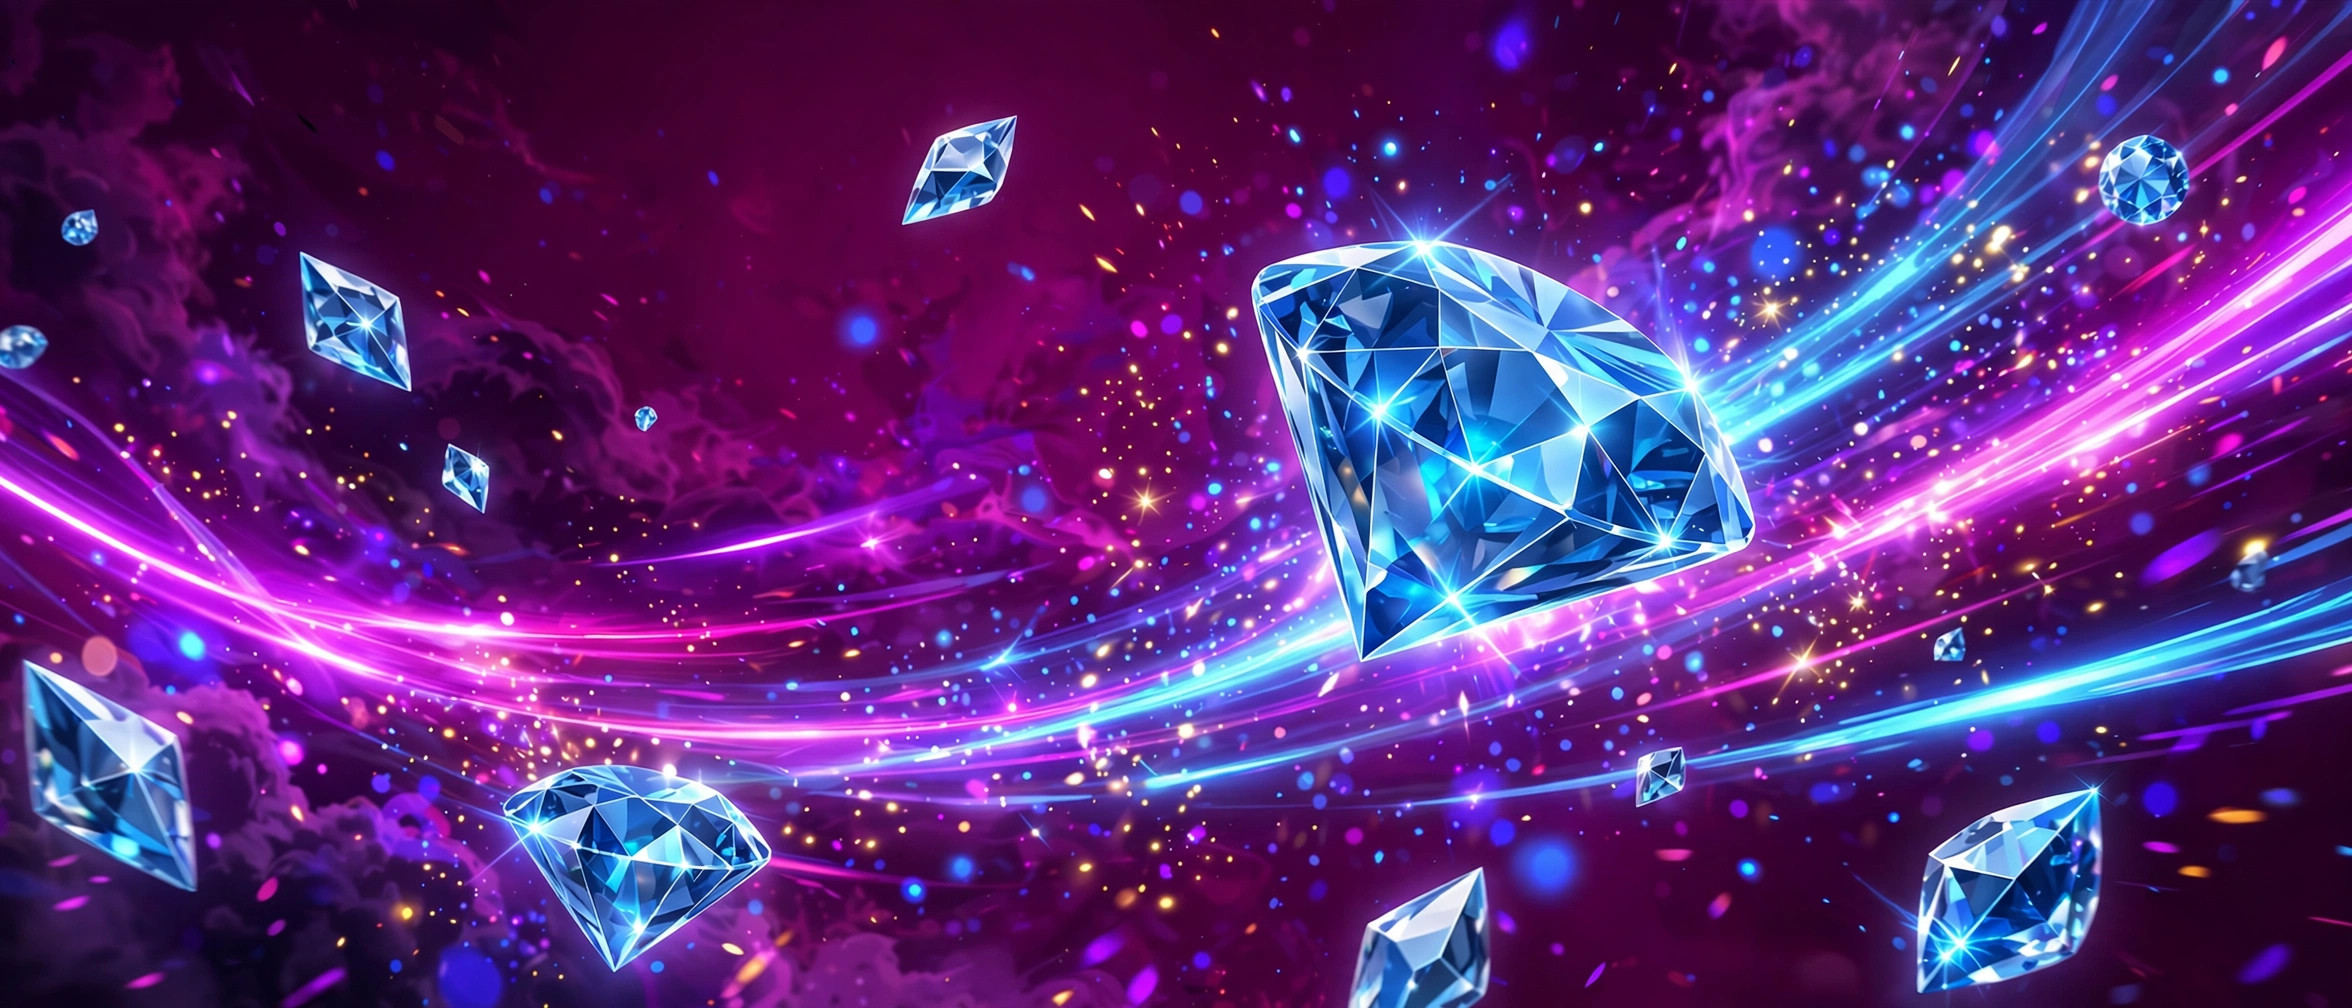
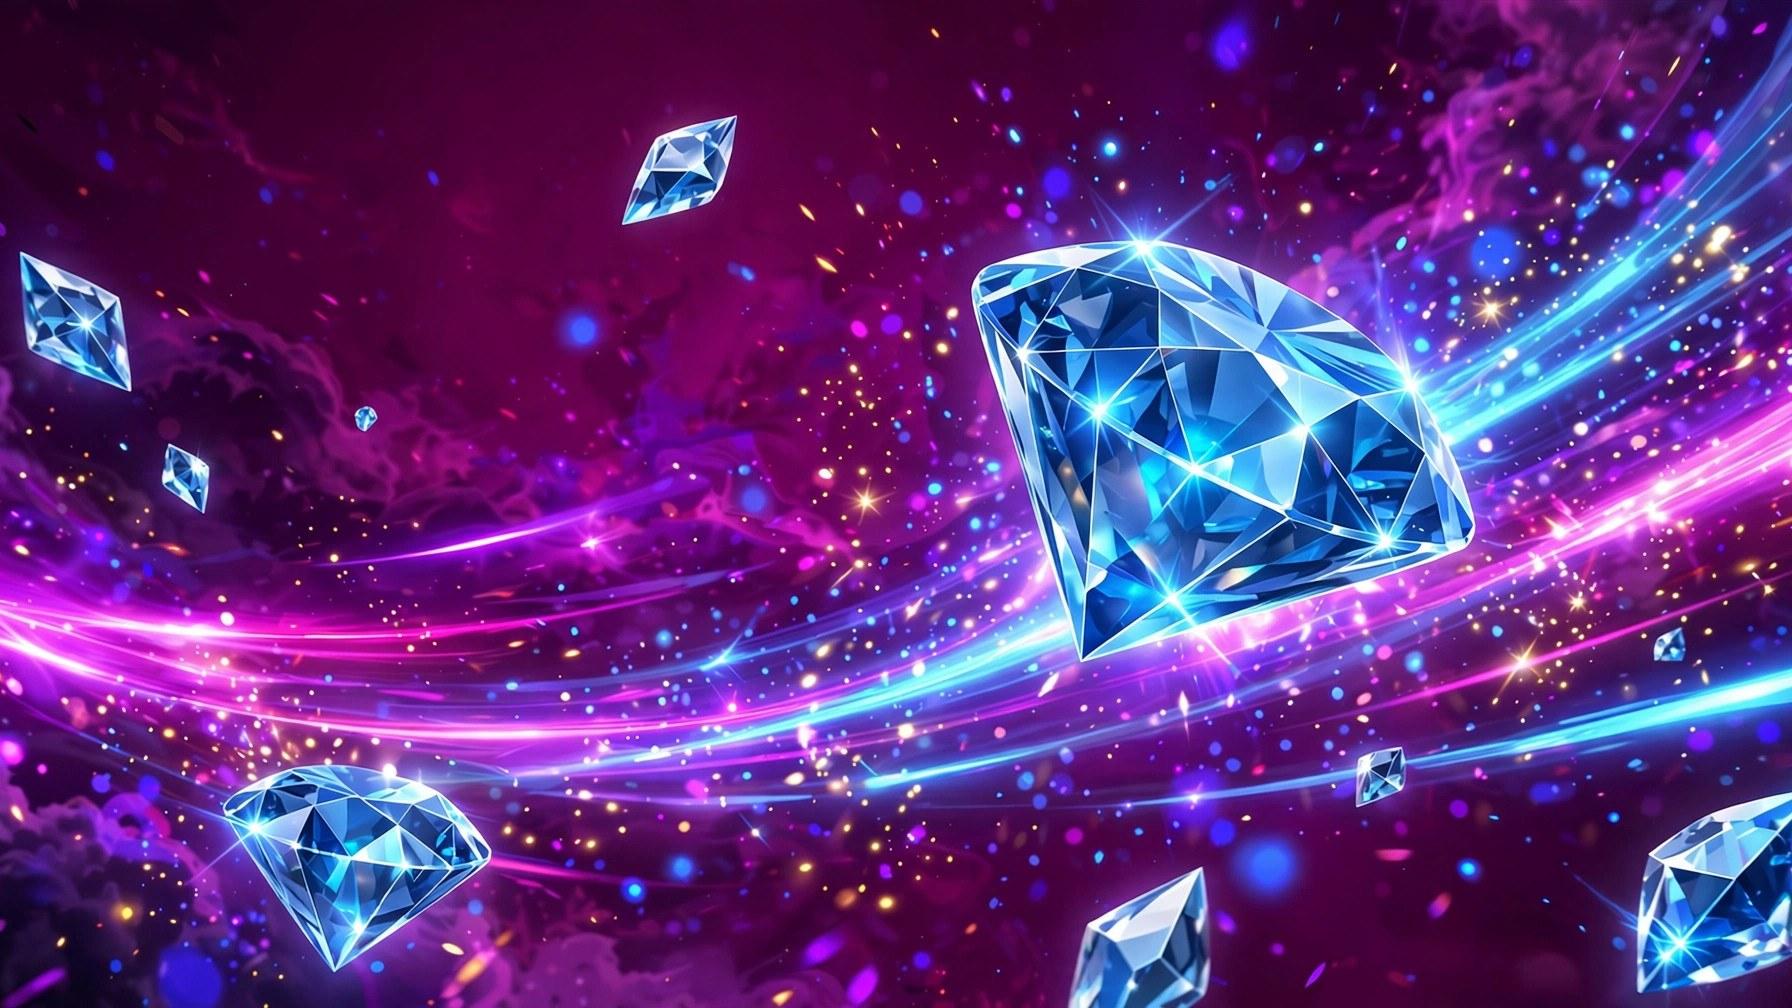
Add files via upload

diff --git a/styles.css b/styles.css
@@ -517,3 +517,34 @@ body{background:#f4f7fd}
   .feed-row{font-size:13px;padding:10px 12px}
   .help-pill{display:none}
 }
+
+/* ---- Hero as contained 16:9 card (no cropping) ---- */
+.hero{max-width:1000px;margin:14px auto;padding:0 14px;background:none;max-height:none}
+.slides{position:relative;aspect-ratio:16/9;height:auto;border-radius:18px;overflow:hidden;box-shadow:0 12px 32px rgba(0,0,0,.28)}
+.slide{border-radius:18px}
+.dots{bottom:10px}
+@media(max-width:640px){
+  .hero{padding:0 10px;margin:10px auto}
+  .slides{border-radius:14px;height:auto}
+  .slide-inner h2{font-size:19px}
+  .slide-inner p{font-size:12.5px}
+}
+
+/* ---- Stop horizontal wobble: page stays fixed ---- */
+html, body { overflow-x: clip; }
+@supports not (overflow: clip) { html, body { overflow-x: hidden; } }
+
+/* ---- Header: never overflow on mobile ---- */
+@media(max-width:640px){
+  .site-header .nav{flex-wrap:nowrap}
+  .site-header .nav-actions{flex-wrap:nowrap;min-width:0}
+  #user-chip{display:none} /* name visible on account page; saves header space */
+  #account-link{padding:7px 10px;font-size:13px}
+  .balance-chip{flex-shrink:0}
+}
+/* ---- Other flex rows: allow wrap / shrink ---- */
+.product-banner > div{min-width:0}
+.product-banner{flex-wrap:wrap}
+.order-card{flex-wrap:wrap}
+.order-card > div{min-width:0}
+.notice-text{min-width:0}
